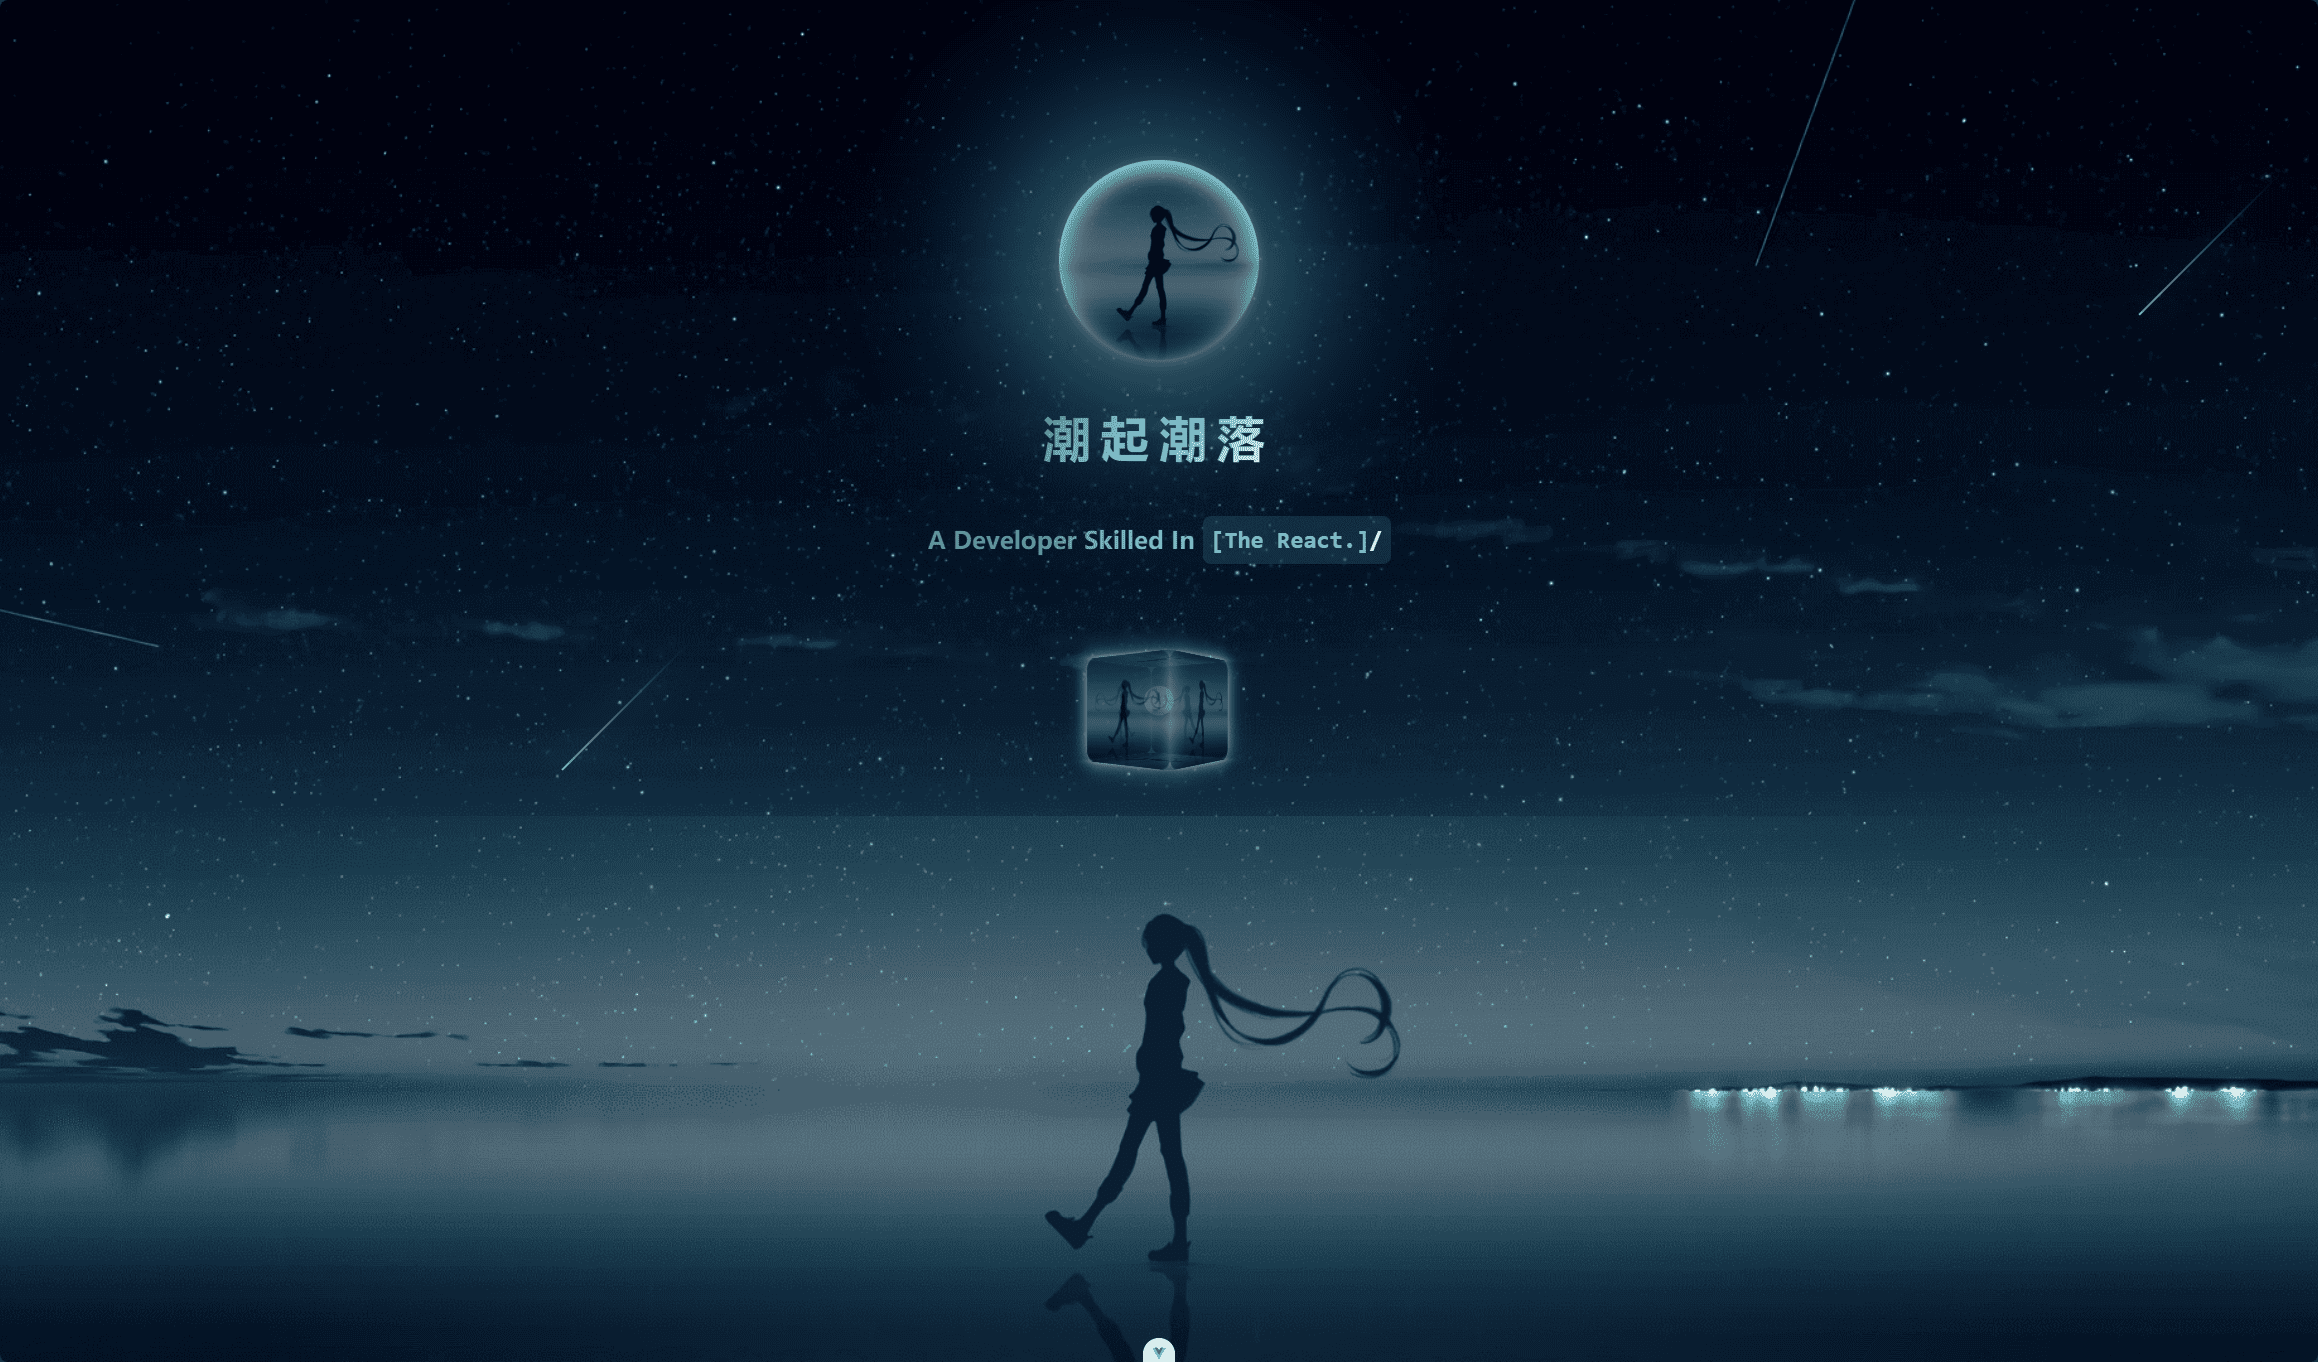
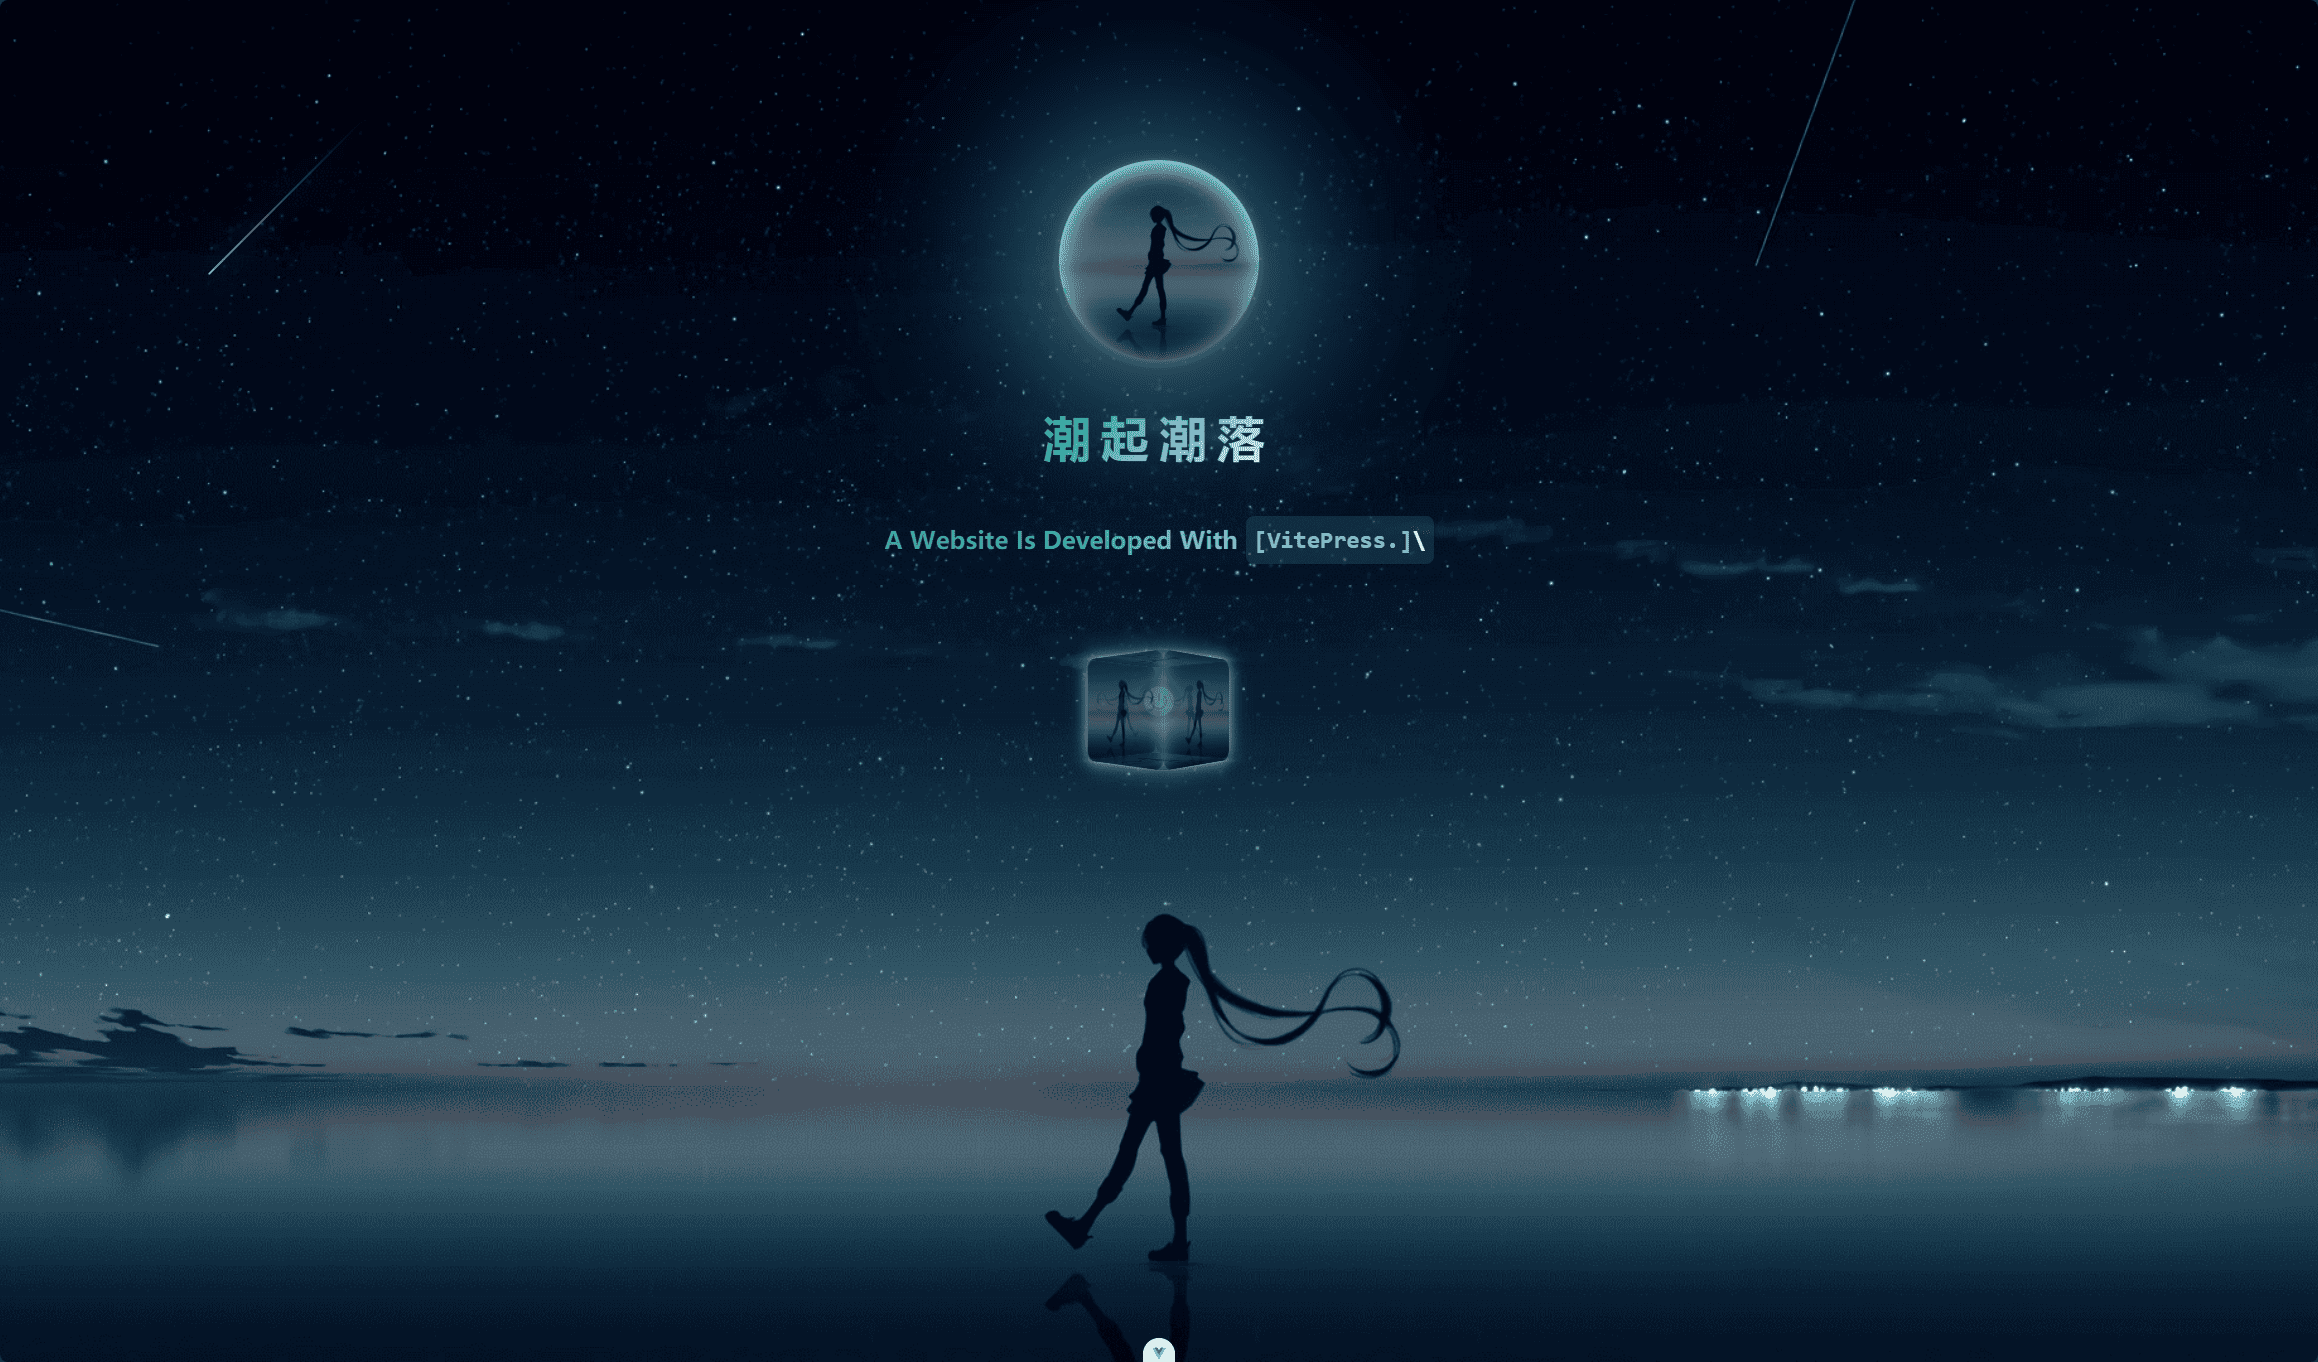
自定义主题

diff --git a/packages/theme/src/components/CodeMotion.vue b/packages/theme/src/components/CodeMotion.vue
@@ -6,7 +6,7 @@ const props = defineProps<{
   /**
    * 技能列表
    */
-  skills?: string[]
+  codes?: string[]
   /**
    * 是否暂停
    */
@@ -42,7 +42,7 @@ const props = defineProps<{
 }>()
 
 const {
-  skills = [],
+  codes = [],
   speedGap = 40,
   pauseGap = 4000,
   prefix = '[',
@@ -51,7 +51,7 @@ const {
   cycle = true
 } = props
 
-const maxLength = props.maxLength ?? Math.max(...skills.map(s => s.length))
+const maxLength = props.maxLength ?? Math.max(...codes.map(s => s.length))
 const buffer = Array.from<string>({ length: maxLength }).fill(placeholder)
 
 const coding = shallowRef(`${prefix}${placeholder.repeat(maxLength)}${suffix}`)
@@ -63,7 +63,7 @@ let lastAnimationTime: number
 let p1 = 0 // 当前显示的字符位置
 let p2 = 0 // 当前字符的遍历位置
 let vector = 1 // 当前字符的遍历方向
-let currCode = skills[p1]!
+let currCode = codes[p1]!
 
 function animationFrame(timestamp: DOMHighResTimeStamp) {
   if (!lastAnimationTime) {
@@ -83,8 +83,8 @@ function animationFrame(timestamp: DOMHighResTimeStamp) {
     if (p2 === -1) {
       p2 = 0
       vector = 1
-      p1 = (p1 + 1) % skills.length
-      currCode = skills[p1]!
+      p1 = (p1 + 1) % codes.length
+      currCode = codes[p1]!
     }
 
     // 右边界
@@ -93,7 +93,7 @@ function animationFrame(timestamp: DOMHighResTimeStamp) {
       vector = -1
       isAnimating = false
 
-      if (p1 === skills.length - 1 && !cycle) {
+      if (p1 === codes.length - 1 && !cycle) {
         return window.cancelAnimationFrame(raf)
       }
     }
@@ -116,7 +116,7 @@ watch(
 )
 
 onMounted(async () => {
-  if (skills.length === 0 || props.paused) return
+  if (codes.length === 0 || props.paused) return
   await nextTick()
   raf = window.requestAnimationFrame(animationFrame)
 })

diff --git a/packages/theme/src/layout/LayoutHome.vue b/packages/theme/src/layout/LayoutHome.vue
@@ -1,10 +1,10 @@
 <script setup lang="ts">
 import { useData, useRouter, withBase } from 'vitepress'
 import { computed, shallowRef } from 'vue'
+import CodeMotion from '#/components/CodeMotion.vue'
 import CubeAvatar from '#/components/CubeAvatar.vue'
 import FloatingText from '#/components/FloatingText.vue'
 import MoonAvatar from '#/components/MoonAvatar.vue'
-import SkillCoding from '#/components/SkillCoding.vue'
 import { Power } from '#/icons'
 import { parseImageURL, useThemeConfig } from '#/shared'
 
@@ -46,9 +46,9 @@ function handleEnter() {
             :text="frontmatter.tagline"
             @motion-end="taglineMotion = 'fade'"
           />
-          <SkillCoding
+          <CodeMotion
+            :codes="frontmatter.codes"
             :paused="taglineMotion !== 'fade'"
-            :skills="frontmatter.skills"
           />
         </p>
       </h2>

diff --git a/docs/src/index.md b/docs/src/index.md
@@ -2,8 +2,8 @@
 layout: home
 
 author: 潮起潮落
-tagline: A Developer Skilled In
-skills: ['TypeScript', 'The Node', 'The Vue', 'The React', 'The Unocss']
+tagline: A Website Is Developed With
+codes: ['VitePress', 'The Vite', 'The Vue', 'The Unocss', 'The Bun', 'TypeScript']
 entryLink: /vue/guide/reactive
 
 titleTemplate: false
